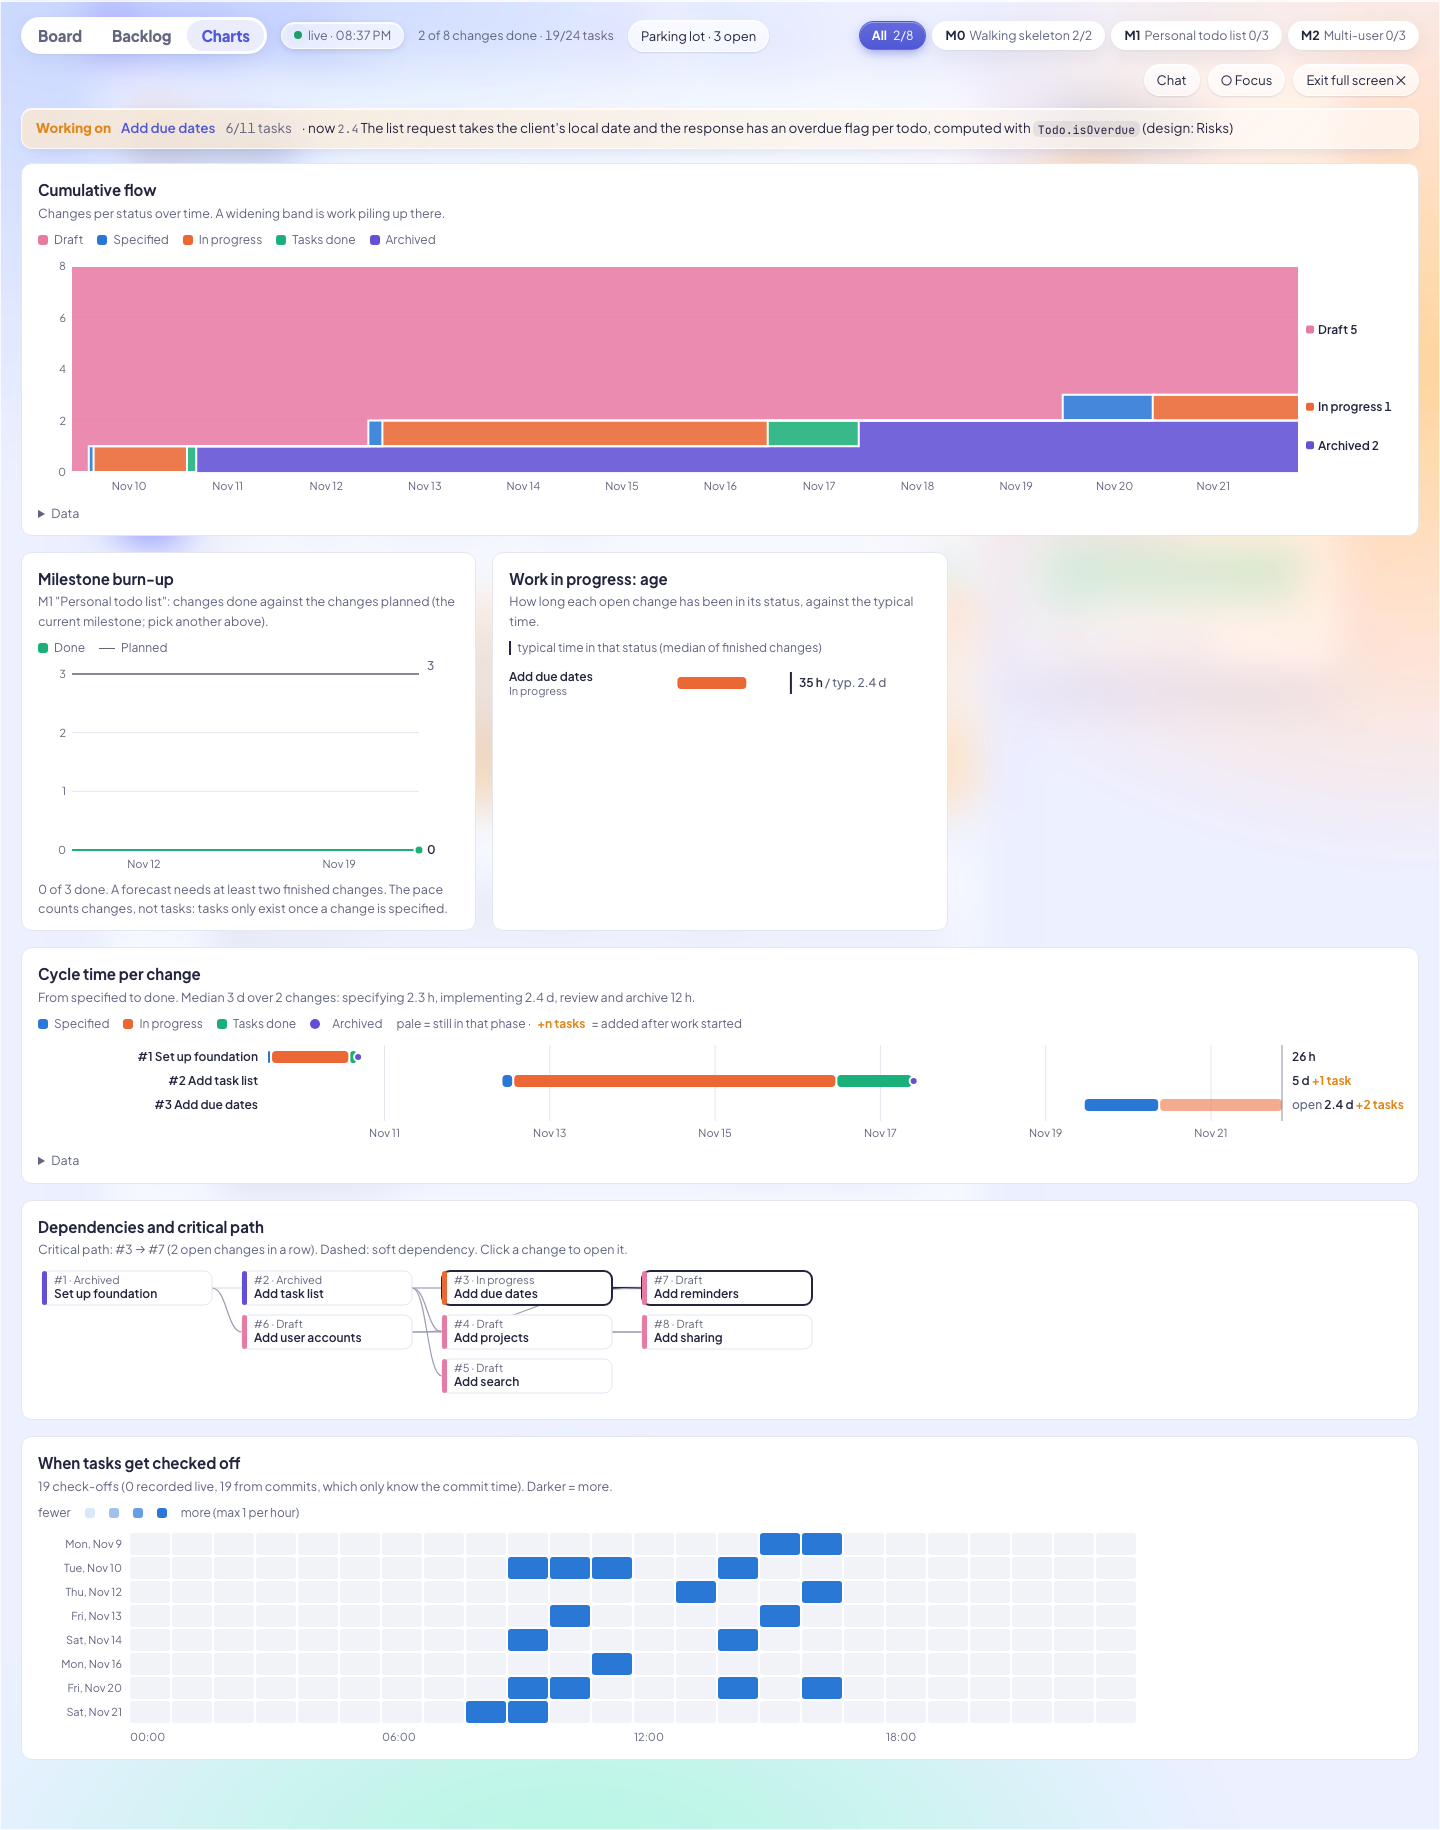
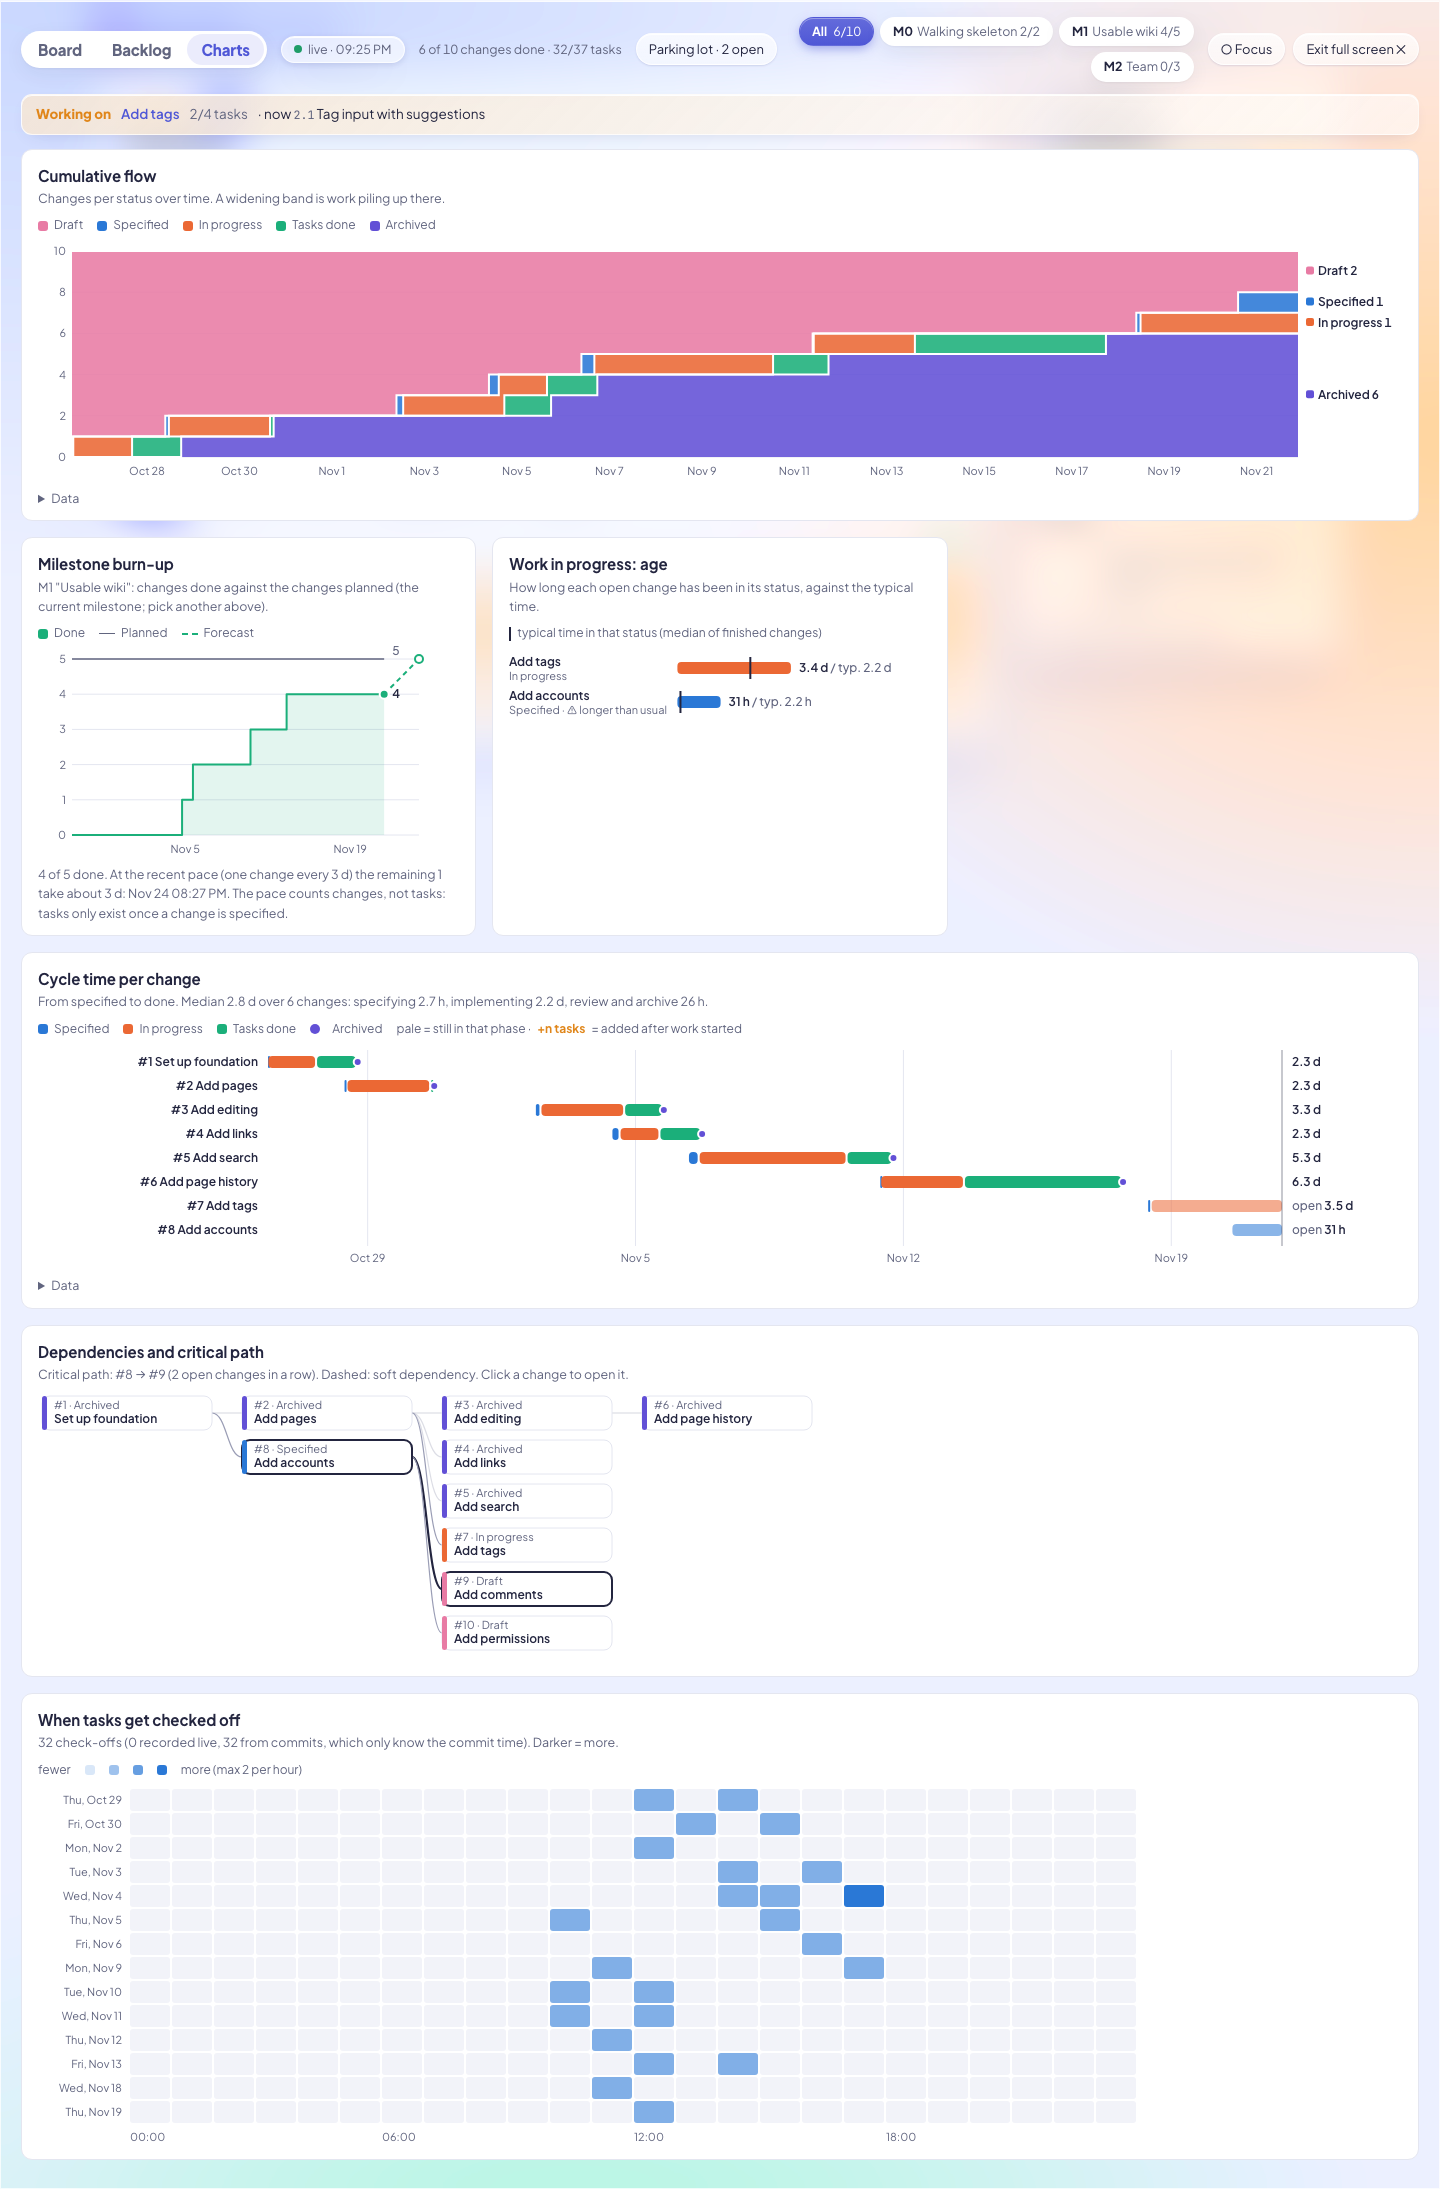
A demo project with four weeks of history for the charts (examples/demo-history)
make-demo.mjs builds "Team wiki" as a git repository: ten changes in three milestones, specified, worked through
task by task and archived on working days (dates relative to today), so cumulative flow, the milestone burn-up
with its forecast, cycle times and the task heatmap have something to show. It validates with openspec. The charts
screenshot in the manual and the README now shows it.

diff --git a/README.md b/README.md
@@ -15,7 +15,7 @@ is any new session or sub-agent that has not seen the implementation.
 when an answer takes more than 30 seconds (adjustable, or off), it runs until the answer is in. The animation is
 shortened.*
 
-![Charts from the git history: cumulative flow, burn-up, cycle time and the critical path](docs/images/dashboard-charts.png)
+![Charts from the git history of a demo project: cumulative flow, burn-up with a forecast, cycle times and the critical path](docs/images/dashboard-charts.png)
 
 The repository contains:
 
@@ -29,8 +29,8 @@ The repository contains:
   changes while agents work on them, with a backlog, charts from the git history and a chat with Claude Code
   (see [below](#the-dashboard)).
 - two sample OpenSpec contexts, [`examples/todo-app`](examples/todo-app) and
-  [`examples/habit-tracker`](examples/habit-tracker), and a short
-  [user guide](docs/user-guide.md) with screenshots.
+  [`examples/habit-tracker`](examples/habit-tracker), a [demo project with four weeks of history](examples/demo-history)
+  to try the charts, and a short [user guide](docs/user-guide.md) with screenshots.
 
 New here? Start with the [user guide](docs/user-guide.md).
 

diff --git a/docs/user-guide.md b/docs/user-guide.md
@@ -194,7 +194,15 @@ They are built from the git history of `openspec/` and from what the dashboard r
 cover the time before you first started it; hover for values, **Data** shows a table. **○ Focus** shows open work
 only: no archived band in the flow, no archived changes in the cycle times and the dependency graph.
 
-![Charts](images/dashboard-charts.png)
+To try the charts with some history, generate the demo project (a team wiki built up over four weeks, see
+[examples/demo-history](../examples/demo-history)) and start the dashboard on it; the screenshot shows it:
+
+```sh
+node examples/demo-history/make-demo.mjs ~/team-wiki-demo
+node tools/openspec-dashboard/server.mjs ~/team-wiki-demo
+```
+
+![Charts of the demo project](images/dashboard-charts.png)
 
 ### Git history
 

diff --git a/examples/demo-history/README.md b/examples/demo-history/README.md
@@ -1,0 +1,13 @@
+# Demo project with history
+
+`make-demo.mjs` builds a small OpenSpec project, "Team wiki", as a git repository with four weeks of history, so the
+dashboard's charts have something to show: ten changes in three milestones, specified, worked through task by task
+and archived on working days, one commit per step. M0 is done, M1 nearly (one change in progress), M2 is planned.
+The dates are relative to the day you run it.
+
+```sh
+node examples/demo-history/make-demo.mjs ~/team-wiki-demo
+node tools/openspec-dashboard/server.mjs ~/team-wiki-demo        # then: Charts
+```
+
+Zero dependencies; needs Node 20 and git. The project validates with `openspec validate --all`.
